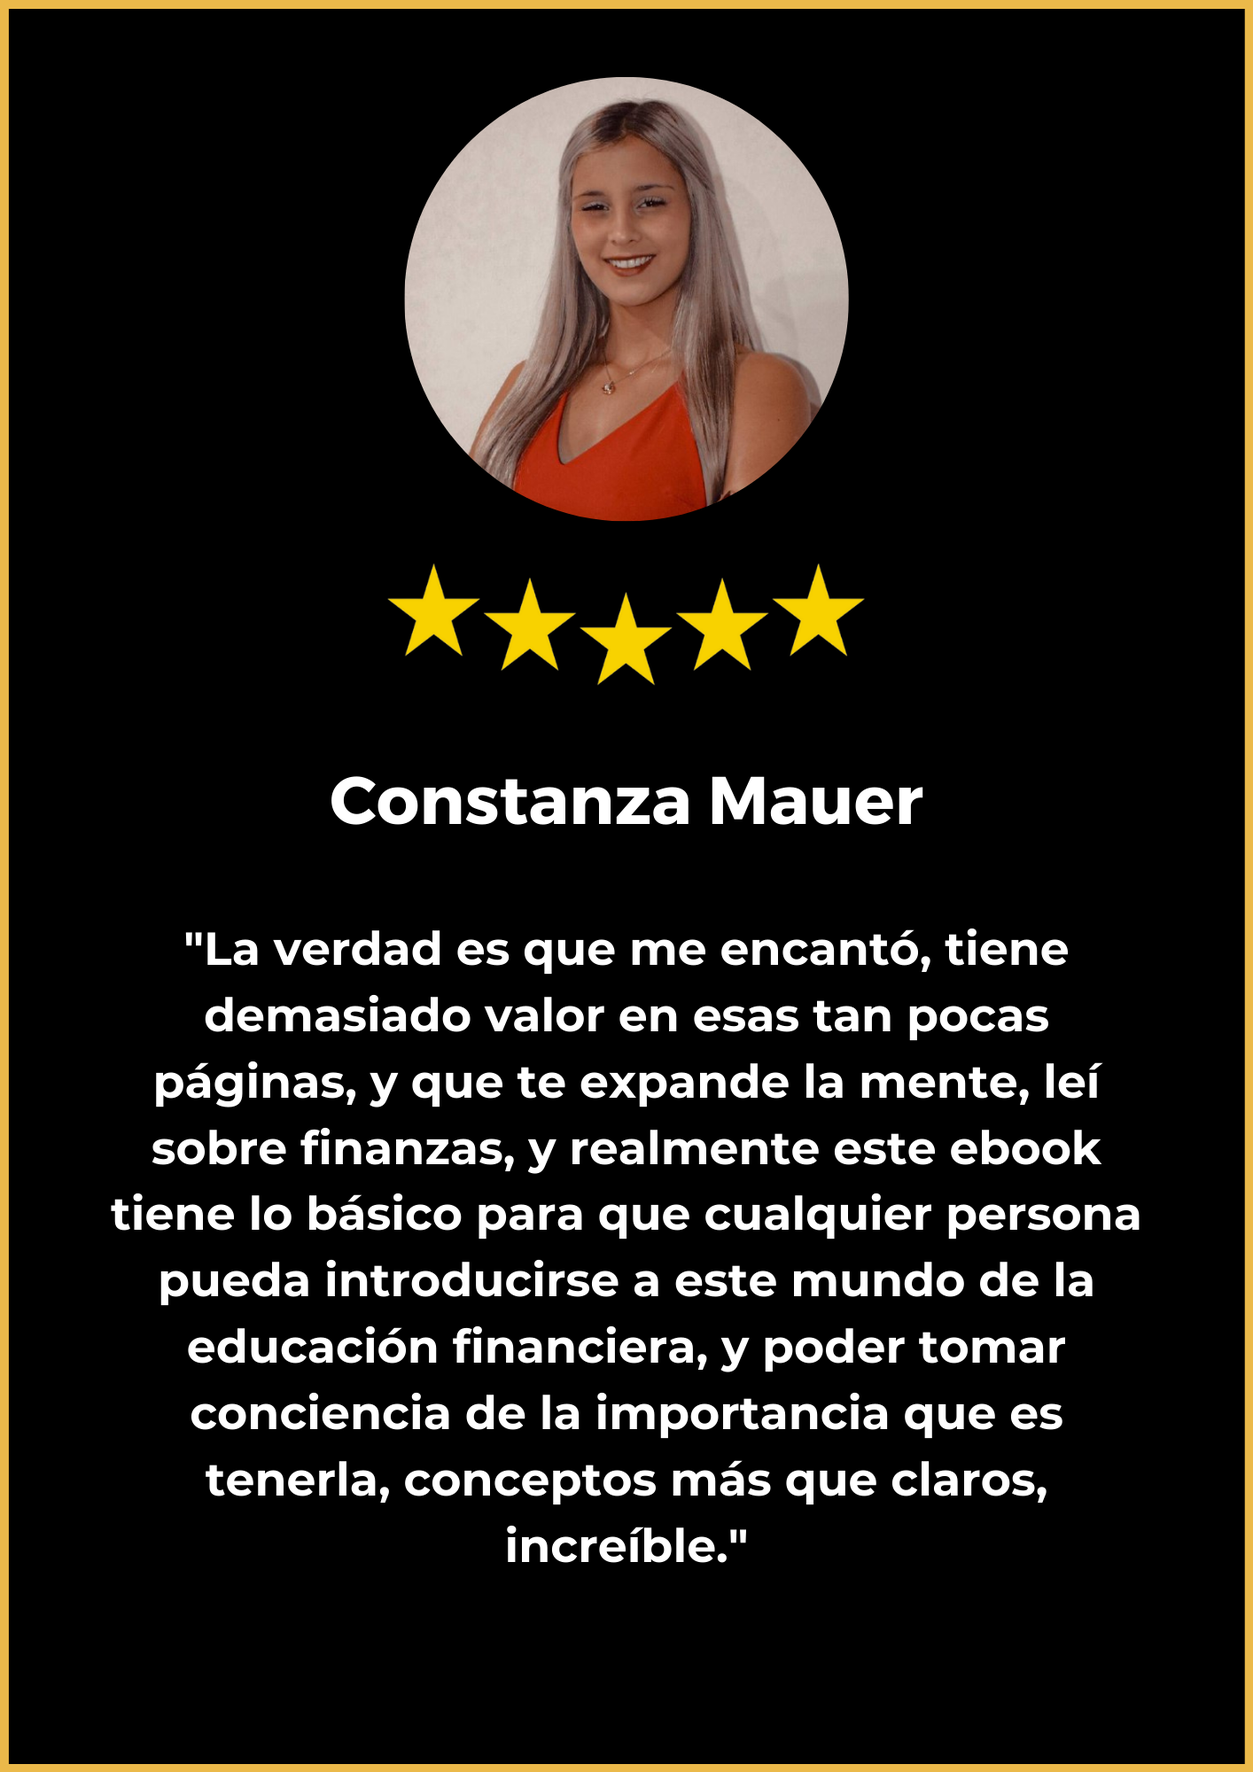
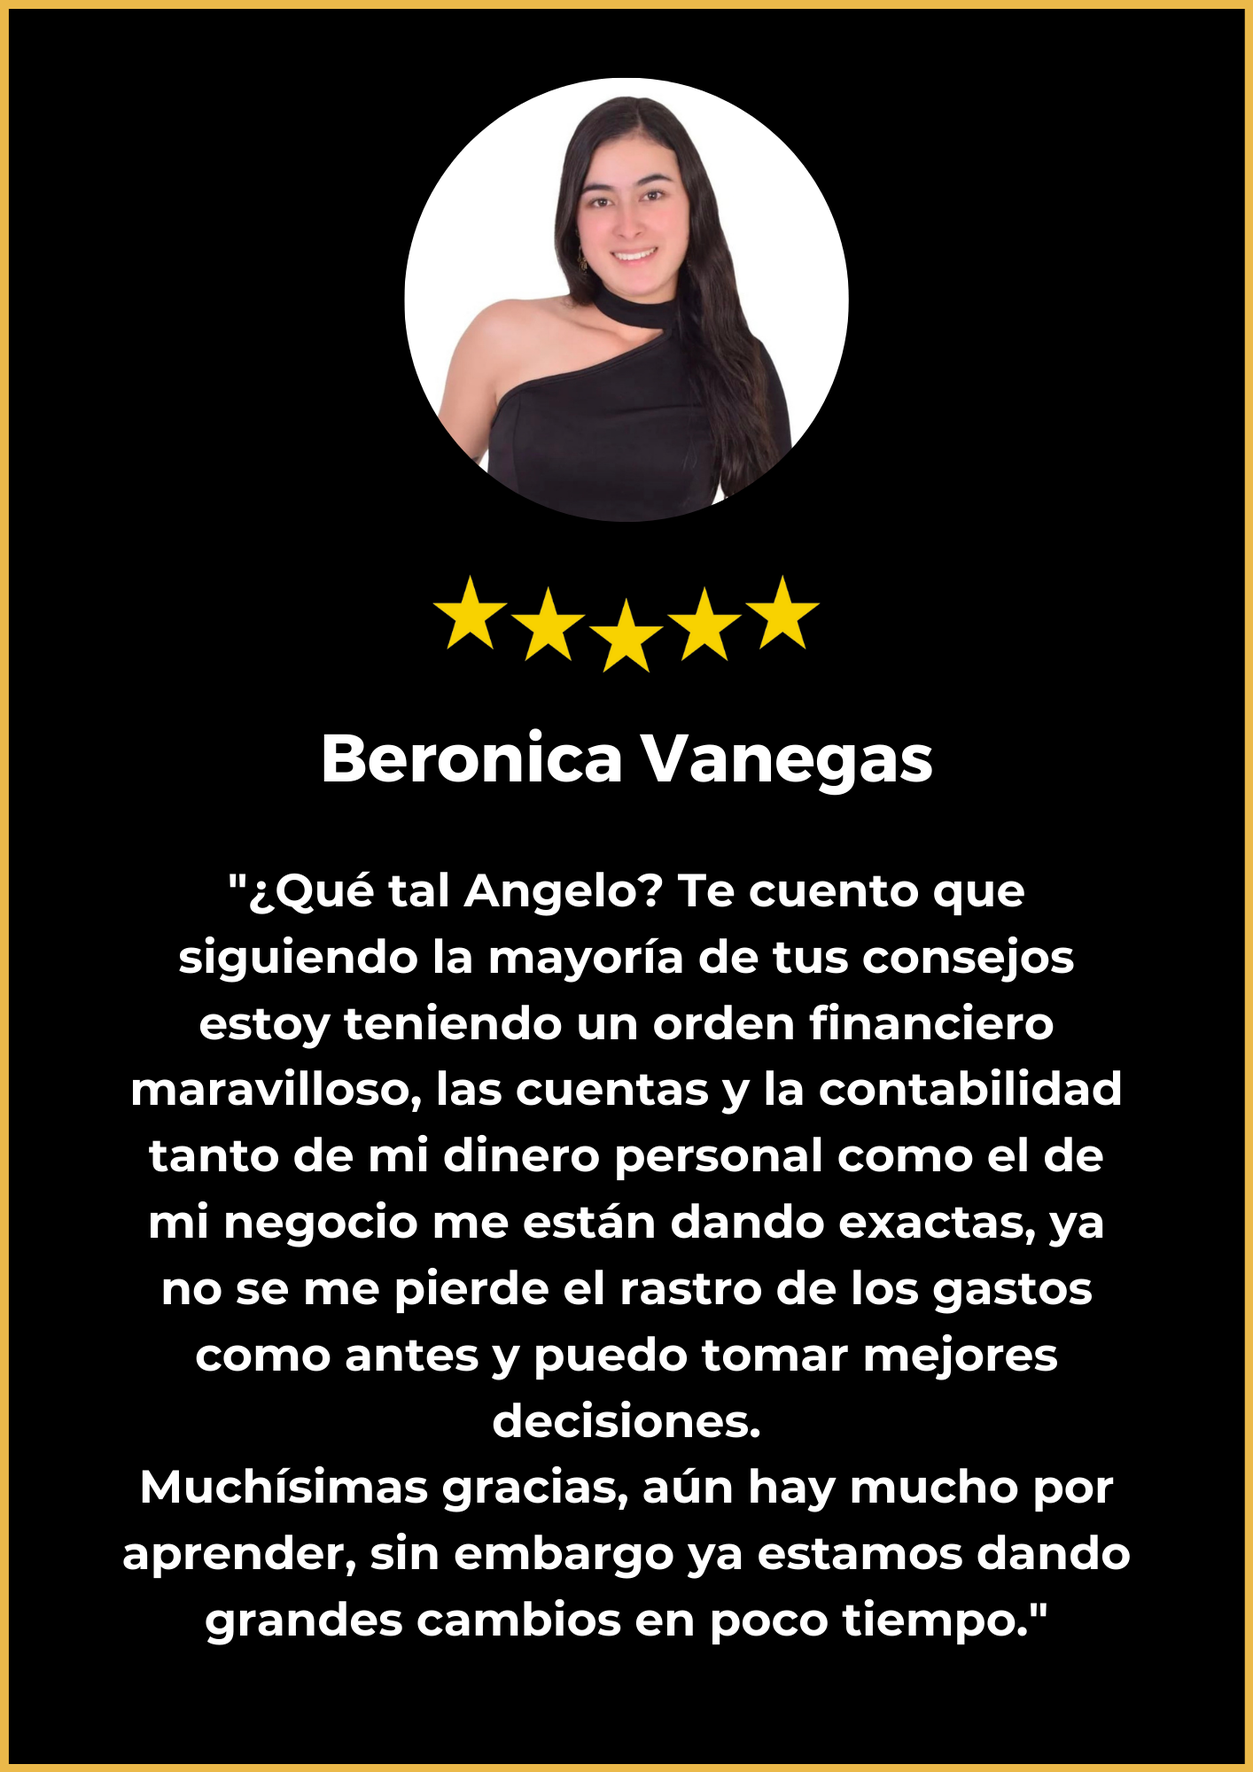
cambios 27-01-23

Changed region(s): [[0.0934, 0.496, 0.9024, 0.93], [0.2489, 0.031, 0.7468, 0.465]]

diff --git a/src/sections/Preguntas/Preguntas-frecuentes.jsx b/src/sections/Preguntas/Preguntas-frecuentes.jsx
@@ -64,7 +64,20 @@ const PreguntasFrecuentes = () => {
             </span>
             { 
             action2 === true ? 
-                <p className="preguntas-frecuentes-yes-rest">En el link de pago vas a poder ver las diferentes opciones, si deseas contactarme al privado para hacer el pago podes hacerlo mediante el instagram de la comunidad “@emperador.financiero”. Se aceptan todos los medios de pago: Efectivo, Tarjeta de Crédito, Tarjeta de Débito, Transferencia Bancaria, Criptomonedas y PayPal.</p>
+                <p className="preguntas-frecuentes-yes-rest">Al dar clic sobre algunos de los botones de compra que puedes visualizar a lo largo
+                de la página, la misma te redireccionará hacia mi contacto de WhatsApp personal,
+                de esta manera podremos personalizar el método de pago para encontrar cuál es la
+                mejor opción para ambos. En cada país las comisiones por IVA y diversos
+                impuestos son diferentes, por este motivo elijo tomarme el tiempo de hacerlo
+                personalizado, <b>así te puedes ahorrar hasta un 21% al realizar la compra.</b> <br /><br />
+                En caso de que no funcione el link, puedes hablarme directamente al Instagram de
+                la comunidad @emperador.financiero.<br /><br />
+                Se aceptan todos los medios de pago, efectivo mediante Western Union, tarjeta de
+                crédito, tarjeta de débito, transferencia bancaria (dependiendo el país), PayPal y
+                Criptomonedas.<br /><br /><br />
+                (El texto que dice “así te puedes ahorrar hasta un 21% al realizar la compra ponerlo
+                en negrita)
+                </p>
             :
                 null
             }
@@ -97,7 +110,19 @@ const PreguntasFrecuentes = () => {
             </span>
             { 
             action5 === true ? 
-                <p className="preguntas-frecuentes-yes-rest"> La metodología del curso es online, así que vas a poder acceder al contenido y verlo cuando desees, a tu propio tiempo.</p>
+                <p className="preguntas-frecuentes-yes-rest">LA METODOLOGÍA DEL PROGRAMA ES 100% ONLINE, ESTO
+                SIGNIFICA QUE VAS A PODER ACCEDER AL CONTENIDO Y VERLO CUANDO
+                DESEES, A TU PROPIO RITMO.<br /><br />
+                ES IMPORTANTE ACLARAR QUE EL PROGRAMA ESTÁ DISEÑADO CON EL FIN
+                DE PODER DEDICARLE SOLAMENTE 2 HORAS CADA SEMANA, ES DECIR,
+                ESTUDIAR 1 MÓDULO POR SEMANA DURANTE LOS PRÓXIMOS 3 MESES.
+                CASI TODOS TENEMOS 2 HORAS PARA DEDICARLE A NUESTRO
+                CRECIMIENTO PERSONAL Y FINANCIERO.<br /><br />
+                ADEMÁS, RECIENTEMENTE DECIDÍ CREAR UN GRUPO PRIVADO PARA LOS
+                ALUMNOS CON EL FIN DE MANTENER UNA COMUNICACIÓN ACTIVA Y
+                APORTARNOS VALOR ENTRE TODOS PARA LOGRAR MEJORAR NUESTROS
+                RESULTADOS.
+                </p>
             :
                 null
             }
@@ -119,7 +144,12 @@ const PreguntasFrecuentes = () => {
             </span>
             { 
             action7 === true ? 
-                <p className="preguntas-frecuentes-yes-rest">La duración total entre los 8 videos es de 5 horas.</p>
+                <p className="preguntas-frecuentes-yes-rest">ACTUALMENTE, EL PROGRAMA CUENTA CON MÁS DE 11
+                HORAS DE CONTENIDO GRABADO CON UNA GRAN CALIDAD DE AUDIO Y
+                VIDEO, 3 EXCELS COMO HERRAMIENTAS PRÁCTICAS Y 2 WORKBOOKS DE
+                TRABAJO. <br /> <br />
+                PRÓXIMAMENTE, SE AÑADIRÁN DIFERENTES ACTUALIZACIONES JUNTO
+                CON NUEVO CONTENIDO DE ALTÍSIMO VALOR.</p>
             :
                 null
             }
@@ -130,7 +160,13 @@ const PreguntasFrecuentes = () => {
             </span>
             { 
             action8 === true ? 
-                <p className="preguntas-frecuentes-yes-rest">Sí, en el primer video del curso vas a poder encontrar el link de acceso a nuestro Telegram privado que tenemos exclusivamente para los alumnos del curso. Ahí vas a poder plantear tus dudas y todas las preguntas que te surjan para que te podamos ayudar.</p>
+                <p className="preguntas-frecuentes-yes-rest">CLARO QUE SÍ, UNA VEZ REALIZADA LA COMPRA Y A LO
+                LARGO DEL MÓDULO DE INTRODUCCIÓN, ENCONTRARÁS ACCESO A UN
+                LINK QUE TE REDIRECCIONARÁ HACIA UN GRUPO EXCLUSIVO PARA LOS
+                CLIENTES DEL PROGRAMA. ALLÍ MISMO PODRÁS PLANTEAR LAS DUDAS Y
+                PREGUNTAS QUE TE SURJAN.<br /> <br />
+                ADEMÁS, CONTARÁS CON UN SEGUIMIENTO PERSONALIZADO CON ANGELO
+                DURANTE LOS 90 DÍAS QUE ESTARÁS REALIZANDO EL PROGRAMA.</p>
             :
                 null
             }

diff --git a/src/sections/storytelling/Storytelling.jsx b/src/sections/storytelling/Storytelling.jsx
@@ -17,10 +17,10 @@ const Storytelling = () => {
                 En el año 2019 comencé mi camino emprendiendo dentro de la industria del Network Marketing (en el rubro del turismo) y me estaba yendo bien hasta que llegó la pandemia y me di cuenta de algo que generó un shock en mí.
                 <br />
                 <br />
-                Con la pandemia vi cómo cientos de organizaciones y empresas se caían a pedazos y cómo emprendedores que ganaban buen dinero y parecían ser "estables" terminaban en $0, arruinados.
+                Con la llegada de la pandemia, pude ver como cientos de organizaciones dentro de la industria del Network Marketing y diferentes pequeños negocios de distintos rubros que parecían estar “estables” se terminaban fundiendo y yendo a la quiebra.
                 <br />
                 <br />
-                Con los meses descubrí que <b>¡más del 90%! de los emprendedores digitales a día de hoy IMPROVISAN con sus finanzas en el día a día, esto es un error garrafal,</b> y que cuesta muy caro.
+                Con los meses descubrí que <b>¡MÁS DEL 90%! de los emprendedores digitales a día de hoy IMPROVISAN con sus finanzas en el día a día, esto es un error garrafal,</b> y que cuesta muy caro.
                 <br />
                 <br />
                 Lamento ser yo quién te lo diga, pero <b>no todos van a lograr la libertad financiera, y mucho menos si no crean un plan específico y adaptado a su situación personal </b>que les aclare el camino y evite que cometan los siguientes errores. 
@@ -47,13 +47,17 @@ const Storytelling = () => {
                 Así nació lo que hoy es el <b>Programa de Transformación Financiera,</b> más de 1 año de trabajo, estudio e investigación con el fin de crear <b>el programa más completo, práctico y eficiente que jamás hubiera existido.</b>
                 <br />
                 <br />
-                Puede que todo esto te suene a inversión de cientos de dólares, pero para que el precio no sea un impedimento, quiero invitarte a una <b>gran oferta de lanzamiento</b> (hasta el 31/10/2022) del Programa de Transformación Financiera, <b>valuado en $797 USD </b>pero no te voy a cobrar eso, sólo te voy a cobrar $199 USD.
+                Seguramente estás pensando que deberías invertir miles de dólares para aprender a crear ese plan financiero que te menciono. <br />La buena noticia es que yo ya pasé por ese proceso y hoy te brindo la posibilidad de acceder a una <b>OFERTA EXCLUSIVA</b> que te permitirá no solo cientos de dólares sino también mucho tiempo, ya que tendrás todo el contenido curado y paso a paso listo para aplicar.
                 <br />
                 <br />
                 <b> PD 1:</b> Cada día que te levantas y sales a trabajar sin tener un plan claro es equivalente a estar en un velero en el medio de una tormenta en el mar sin saber donde ir, por mucho que te esfuerces no sabes por dónde ir para llegar a tierra firme.
                 <br />
                 <br />
                 <b> PD 2:</b> Te comparto las palabras de algunos clientes que ya forman parte de la comunidad y se sumaron a la visión de ayudar a educar financieramente al mundo.
+                <br />
+                <br />
+                <b> PD 3:</b> Este Programa está diseñado con el fin de explicar los diferentes métodos para administrar correctamente nuestro dinero. A su vez, no se enfoca en enseñar Landing Page 5 los distintos instrumentos financieros, ni cómo realizar análisis técnico o fundamental.
+
             </p>
         </span>
     </div>

diff --git a/src/sections/Planes/Planes.jsx b/src/sections/Planes/Planes.jsx
@@ -5,25 +5,25 @@ export const Planes = () => {
   return (
     <div className="back-card">
         <div className="card">
-            <h1 className="card-text">Primera etapa</h1>
-            <p className="card-calendary">Del <b>01</b> de junio de 2022 <br />al <b>31</b> de julio de 2022</p>
-            <p className="card-price">$99 USD</p>
-            <div className="card-div-button">
-                <button className="card-button">PRECIO NO DISPONIBLE</button>
-            </div>
-        </div>
-        <div className="card">
-            <h1 className="card-text">Segunda etapa</h1>
-            <p className="card-calendary">Del <b>01</b> de agosto de 2022 <br />al <b>31</b> de octubre 2022</p>
+            <h1 className="card-text">Pre lanzamiento</h1>
+            <p className="card-calendary">Del <b>01</b> de agosto de 2022 <br />al <b>31</b> de octubre de 2022</p>
             <p className="card-price">$147 USD</p>
             <div className="card-div-button">
                 <button className="card-button">PRECIO NO DISPONIBLE</button>
             </div>
         </div>
+        <div className="card">
+            <h1 className="card-text">Lanzamiento</h1>
+            <p className="card-calendary">Del <b>01</b> de noviembre de 2022 <br />al <b>31</b> de enero 2023</p>
+            <p className="card-price">$247 USD</p>
+            <div className="card-div-button">
+                <button className="card-button">PRECIO NO DISPONIBLE</button>
+            </div>
+        </div>
         <div className="card-3">
-            <h1 className="card-text-3">Tercera etapa</h1>
-            <p className="card-calendary">Del <b>01</b> de noviembre 2022 <br />al <b>31</b> de diciembre 2022</p>
-            <p className="card-price-yes-3">$199 USD</p>
+            <h1 className="card-text-3">Precio estándar</h1>
+            <p className="card-calendary">Del <b>01</b> de febrero 2023 <br />al <b>30</b> de abril 2023</p>
+            <p className="card-price-yes-3">$349 USD</p>
             <div className="card-div-button">
                 <a className="card-button-yes-3" target="_blank" href="https://walink.co/e3f56e">
                     ¡Quiero unirme al Programa ahora!
@@ -31,7 +31,9 @@ export const Planes = () => {
             </div>
         </div>
         <p className="card-mensaje">
-            Luego de que se termine el tiempo el precio pasará a ser de <b>$297 USD </b>y nunca más va a volver a costar <b>$199 USD</b>, aprovecha y <b>AHORRA $99 USD </b>antes de que sea tarde.
+        A partir del 1 de Mayo del 2023 el precio del Programa pasará a ser
+de <b>$450 USD </b>y nunca más volverás a bajar su precio. Aprovecha ahora y ahorra
+<b> $100 USD </b>antes de que sea tarde.
         </p>
     </div>
   )

diff --git a/src/sections/Testimonios/Testimonios.jsx b/src/sections/Testimonios/Testimonios.jsx
@@ -3,7 +3,7 @@ import './Testimonios.css';
 import Testimonio1 from './../../assets/testimonio1.png';
 import Testimonio2 from './../../assets/testimonio2.png';
 import Testimonio3 from './../../assets/testimonio3.png';
-import Testimonio5 from './../../assets/testimonio4.png';
+import Testimonio8 from './../../assets/wp-testimonio8.png';
 import Testimonio4 from './../../assets/wpp-testimonio1.jpeg';
 import Testimonio6 from './../../assets/wpp-testimonio7.jpeg';
 
@@ -45,10 +45,10 @@ const Testimonios = () => {
                         <img src={Testimonio4} className="testimonio4-img" />
                 </div>
                 <div>
-                        <img src={Testimonio5} className="testimonio5-img" />
+                        <img src={Testimonio6} className="testimonio5-img" />
                 </div>
                 <div>
-                        <img src={Testimonio6} className="testimonio6-img" />
+                        <img src={Testimonio8} className="testimonio5-img" />
                 </div>
             </div>
     </>
@@ -66,13 +66,13 @@ const Testimonios = () => {
                     <img src={Testimonio3} className="testimonio3-img" />
                 </div>
                 <div>
-                    <img src={Testimonio5} className="testimonio5-img" />
+                    <img src={Testimonio6} className="testimonio6-img" />
                 </div>
                 <div>
                     <img src={Testimonio4} className="testimonio4-img" />
                 </div>
                 <div>
-                    <img src={Testimonio6} className="testimonio6-img" />
+                    <img src={Testimonio8} className="testimonio5-img" />
                 </div>
             </div>
     )

diff --git a/src/sections/Garantia/Garantia.css b/src/sections/Garantia/Garantia.css
@@ -34,6 +34,19 @@
     text-transform: uppercase;
 }
 
+.garantia-text2 {
+    margin-left: 280px;
+    margin-right: 280px;
+    padding: 20px;
+    text-align: center;
+    font-size: 16px;
+    color: #000000;
+    font-weight: 600;
+    line-height: 140%;
+    font-family: 'Nunito', sans-serif;
+    text-transform: uppercase;
+}
+
 .garantia-button {
     padding: 15px;
     text-align: center;
@@ -76,6 +89,18 @@
         font-family: 'Nunito', sans-serif;
         text-transform: uppercase;
     }
+    .garantia-text2 {
+        margin-left: 280px;
+        margin-right: 280px;
+        padding: 20px;
+        text-align: center;
+        font-size: 12px;
+        color: #000000;
+        font-weight: 600;
+        line-height: 140%;
+        font-family: 'Nunito', sans-serif;
+        text-transform: uppercase;
+    }
 }
 
 @media only screen and (max-width: 1205px) {
@@ -83,6 +108,11 @@
         margin-left: 100px;
         margin-right: 100px;
         font-size: 14px;
+    }
+    .garantia-text2 {
+        margin-left: 100px;
+        margin-right: 100px;
+        font-size: 12px;
     }
     .container-imagen-garantia {
         padding: 30px;
@@ -100,6 +130,11 @@
         margin-right: 50px;
         font-size: 14px;
     }
+    .garantia-text2 {
+        margin-left: 50px;
+        margin-right: 50px;
+        font-size: 12px;
+    }
     .container-imagen-garantia {
         padding: 30px;
         width: 300px;
@@ -115,6 +150,11 @@
         margin-left: 20px;
         margin-right: 20px;
         font-size: 14px;
+    }
+    .garantia-text2 {
+        margin-left: 20px;
+        margin-right: 20px;
+        font-size: 12px;
     }
     .container-imagen-garantia {
         padding: 30px;

diff --git a/src/sections/CopyObj/CopyObj.jsx b/src/sections/CopyObj/CopyObj.jsx
@@ -12,7 +12,7 @@ const CopyObj = () => {
         El principal obstáculo suele ser que <b>más del 90% improvisa con sus finanzas en el día a día y no tienen un plan financiero sencillo, práctico y sostenible en el tiempo</b> que les permita enfocarse en generar ventas sabiendo que tienen un sistema para manejar su dinero rápido y efectivamente.
         <br />
         <br />
-        <b>Así que tanto si eres Freelance (ofreciendo servicios de cualquier tipo), Networker, vendedor a comisión </b>o cualquier otro tipo de emprendedor digital, dejame decirte que tengo una oferta muy especial para compartirte.
+        <b>Así que tanto si eres Freelancer (ofreciendo servicios de cualquier tipo), Networker, vendedor a comisión </b>o cualquier otro tipo de emprendedor digital, dejame decirte que tengo una oferta muy especial para compartirte.
     </p>
     <div>
         <h1 className='primer-pregunta'>¿Cómo sé si la oferta es para mí?</h1>
@@ -50,7 +50,9 @@ const CopyObj = () => {
             <br />
             <b>No necesitas</b> estar ganando miles de dólares al mes para comenzar tu plan.
             <br />
-            <b>No necesitas</b> hacer el pago de una, te doy la posibilidad de dividir el total en 3 cuotas.
+            <b>No necesitas</b> completar el coste total en un solo pago, te puedo dar
+la posibilidad de un plan de pagos si me contactas al privado. Solo debes dar clic en
+alguno de los botones de compra con fondo verde que están en la página.
         </p>
         <h1 className='segunda-pregunta'>¿Sabes que sí necesitas?</h1>
         <p className='quinto-copy'>

diff --git a/src/sections/Garantia/Garantia.jsx b/src/sections/Garantia/Garantia.jsx
@@ -15,13 +15,20 @@ const Garantia = () => {
             <br />
             si por algún motivo no cumple tus expectativas puedes solicitar la devolución del 100% de tu dinero 
             <br />
-            no tienes que dar justificaciones ni llenar complicados formularios con preguntas incómodas.
+            no tienes que dar justificaciones ni llenar complicados formularios con preguntas incómodas <br />(SOLO APLICA PARA VENTAS REALIZADAS MEDIANTE HOTMART)
             </p>
             <div className="garantia-div-button">
                 <a className="garantia-button" href="https://walink.co/e3f56e" target="_blank">
                   Quiero comprar de forma segura
                 </a>
             </div>
+            <p className="garantia-text2">Este producto se comercializa con el apoyo de Hotmart. La plataforma no realiza un
+control editorial previo de los productos ofertados, ni evalúa el tecnicismo o la
+experiencia de quienes los elaboran. La existencia de un producto y su adquisición,
+a través de la plataforma, no puede considerarse garantía de calidad de contenido y
+resultado, en ningún caso. Al adquirirlo, el comprador declara conocer esta
+información. Puedes acceder a los términos y políticas de Hotmart aquí, incluso
+antes de finalizar la compra.</p>
         </div>
     </div>
   )

diff --git a/src/sections/Modulos/Modulo.jsx b/src/sections/Modulos/Modulo.jsx
@@ -317,7 +317,7 @@ const Modulos = () => {
                     controls
                     muted
                 />
-                <p className="modulos-yes-rest-video">Accede a más de 50 lecciones en vídeos que te harán libre financieramente (si las pones en práctica)</p>
+                <p className="modulos-yes-rest-video">ACCEDE HOY MISMO A MÁS DE 50 LECCIONES QUE TE AYUDARÁN A CREAR TU PROPIO PLAN FINANCIERO PERSONALIZADO PARA LOGRAR TU LIBERTAD FINANCIERA.</p>
             </span>
         </div>)
         :
@@ -330,7 +330,7 @@ const Modulos = () => {
                     controls
                     muted
                 />
-                <p className="modulos-yes-rest-video">Accede a más de 50 lecciones en vídeos que te harán libre financieramente (si las pones en práctica)</p>
+                <p className="modulos-yes-rest-video">ACCEDE HOY MISMO A MÁS DE 50 LECCIONES QUE TE AYUDARÁN A CREAR TU PROPIO PLAN FINANCIERO PERSONALIZADO PARA LOGRAR TU LIBERTAD FINANCIERA.</p>
             </span>
         </div>)
         }

diff --git a/src/sections/Header/Header.jsx b/src/sections/Header/Header.jsx
@@ -12,7 +12,9 @@ const Header = () => {
         {/*<hr className='hr-title' /> */}
         <h1 className="title">Programa de Transformación Financiera</h1>
         <Flyer />
-        <h2 className="subtitle">Conoce el sistema de 12 semanas que te convierte en un experto de la administración financiera y que te ayudará a sentar las bases sólidas que necesitas si de verdad deseas lograr cada una de tus metas sin importar el monto necesario.</h2>
+        <h2 className="subtitle">Aprende a crear tu propio plan financiero personalizado y automatizado aplicando
+un sistema de 12 semanas con resultados comprobados. <br/>Crea tus bases financieras
+sólidas y prepárate para invertir inteligentemente.</h2>
         <Button />
     </header>
   )

diff --git a/src/sections/ButtonStory/ButtonStory.jsx b/src/sections/ButtonStory/ButtonStory.jsx
@@ -5,10 +5,10 @@ const ButtonStory = () => {
   return (
     <div className="button-div-bonus">
         <button className="button-bonus-1">
-        Curso valuado en $499
+        Curso valuado en $799
         </button>
         <a className="button-bonus-2" href="https://walink.co/e3f56e" target="_blank">
-        Accede ahora por solo $199
+        Accede ahora por solo $349
         </a>
     </div>
   )
